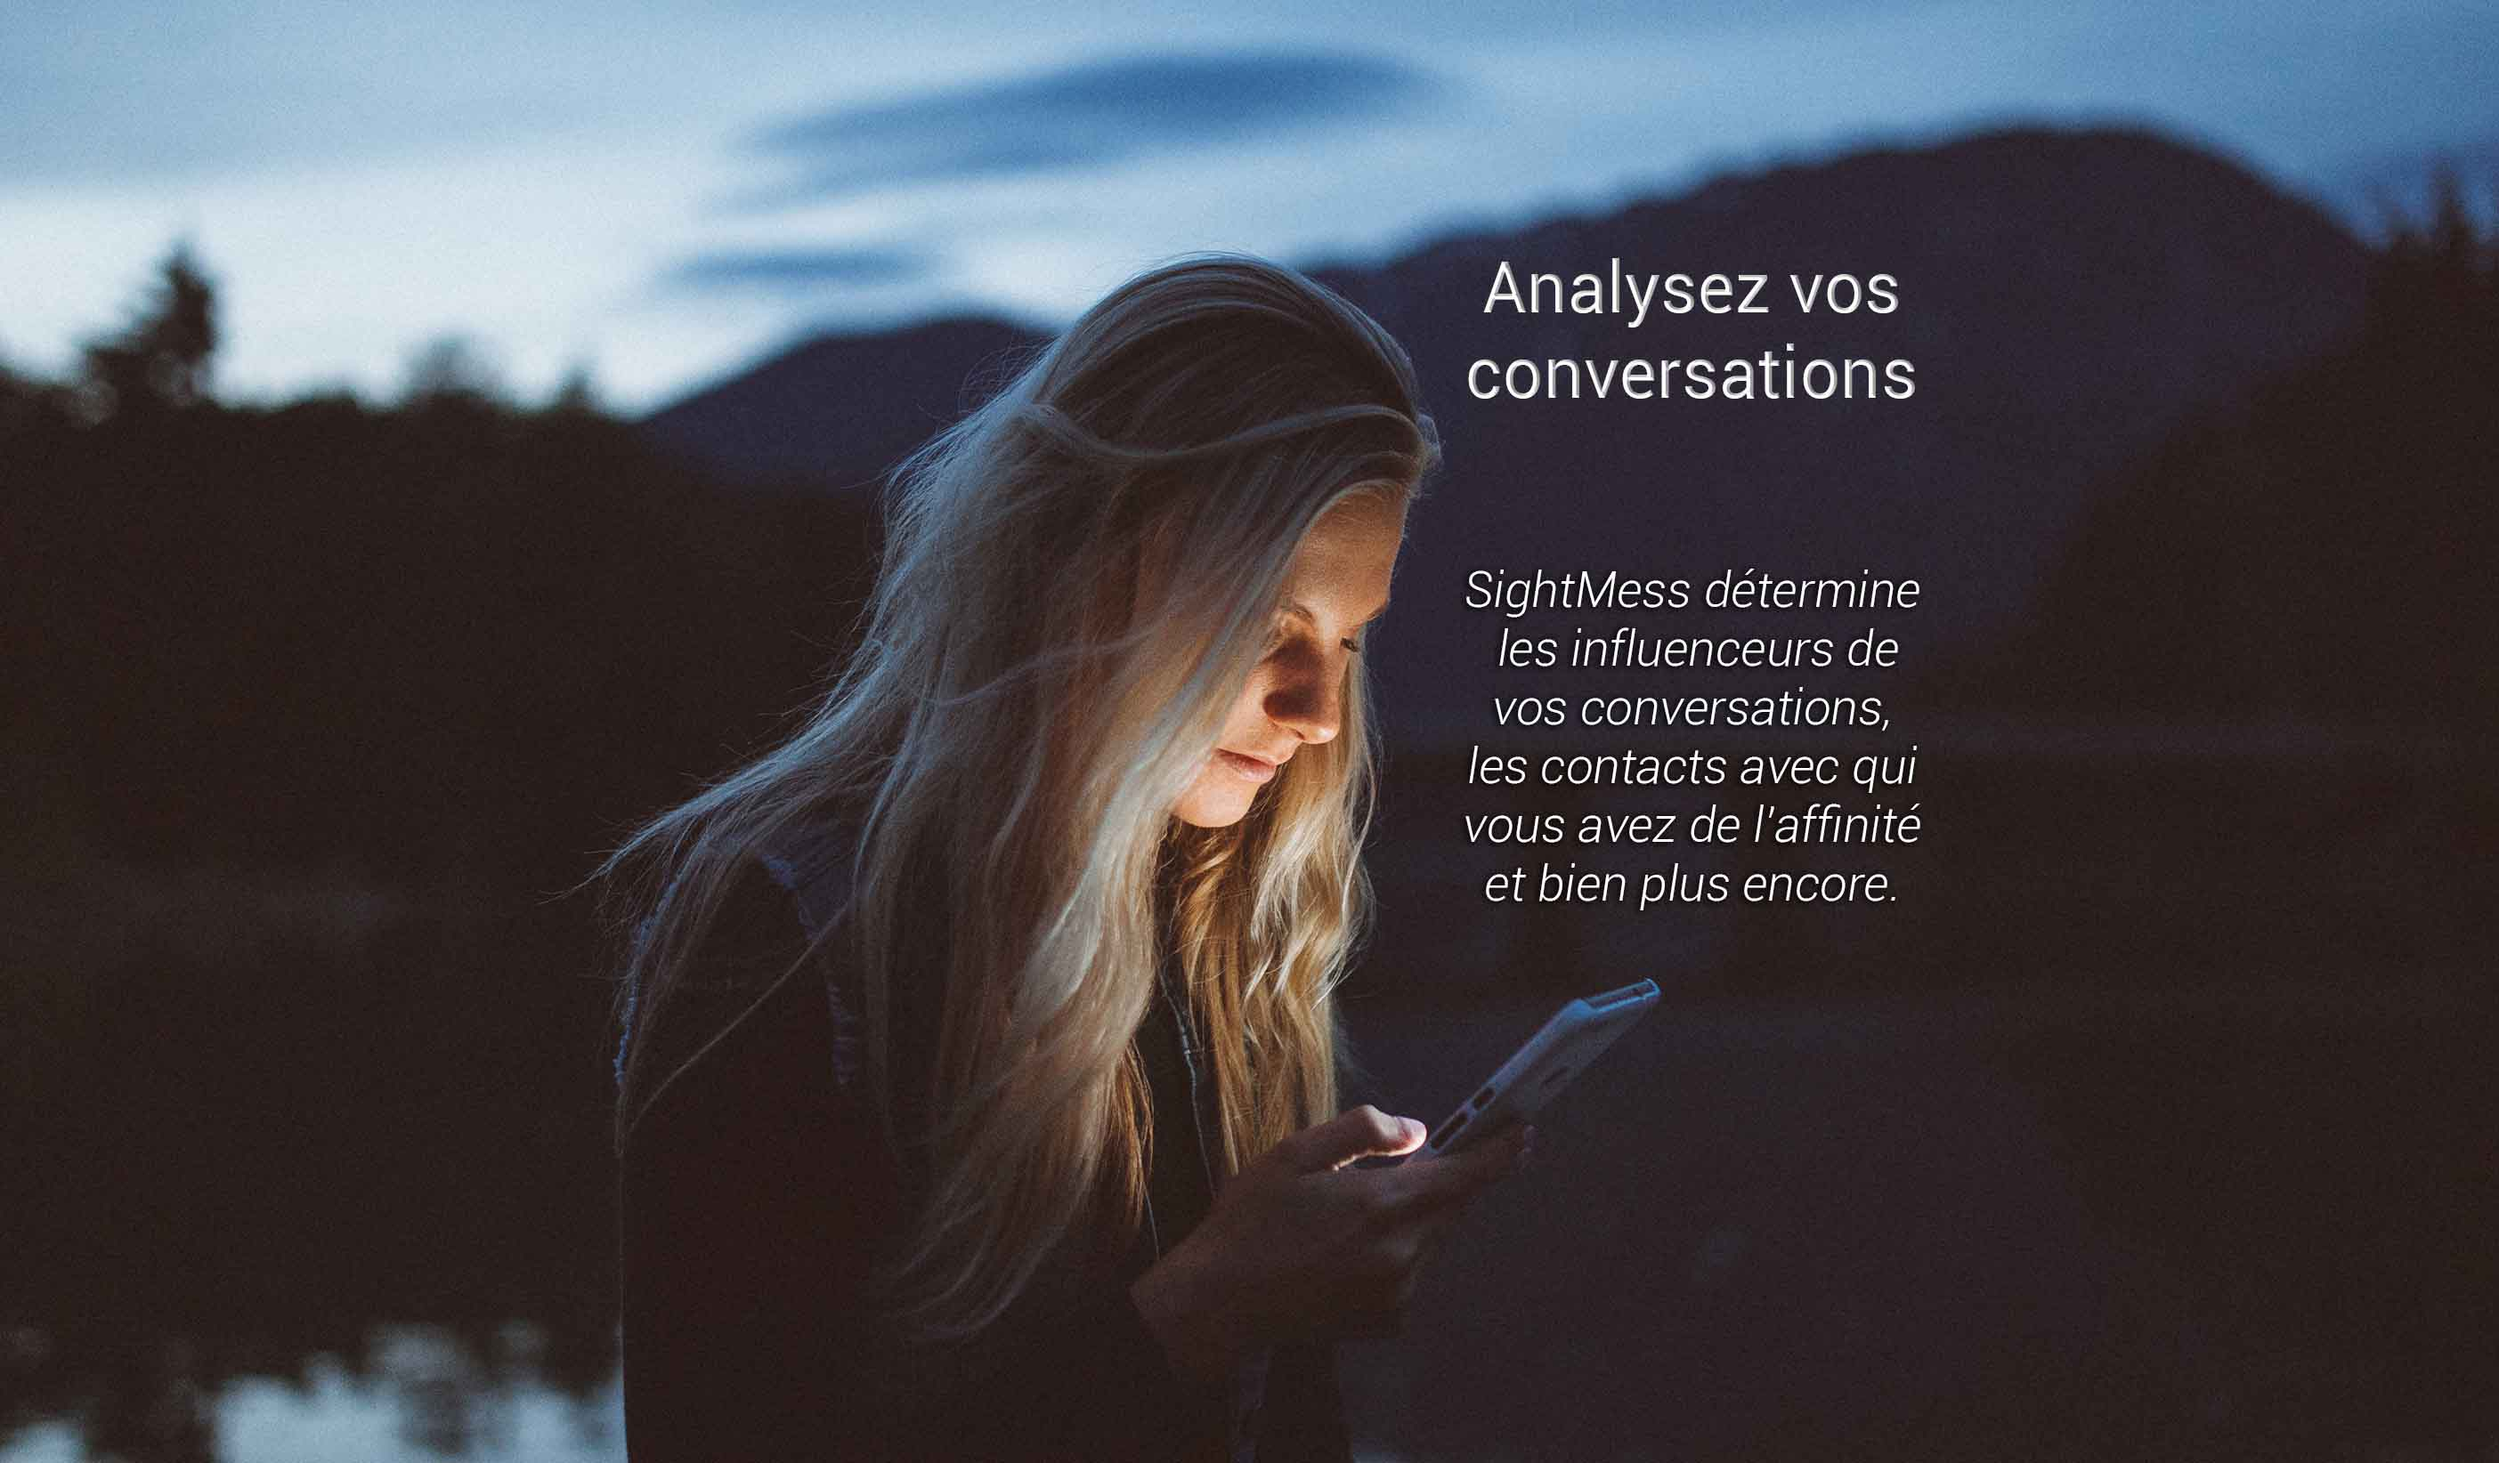
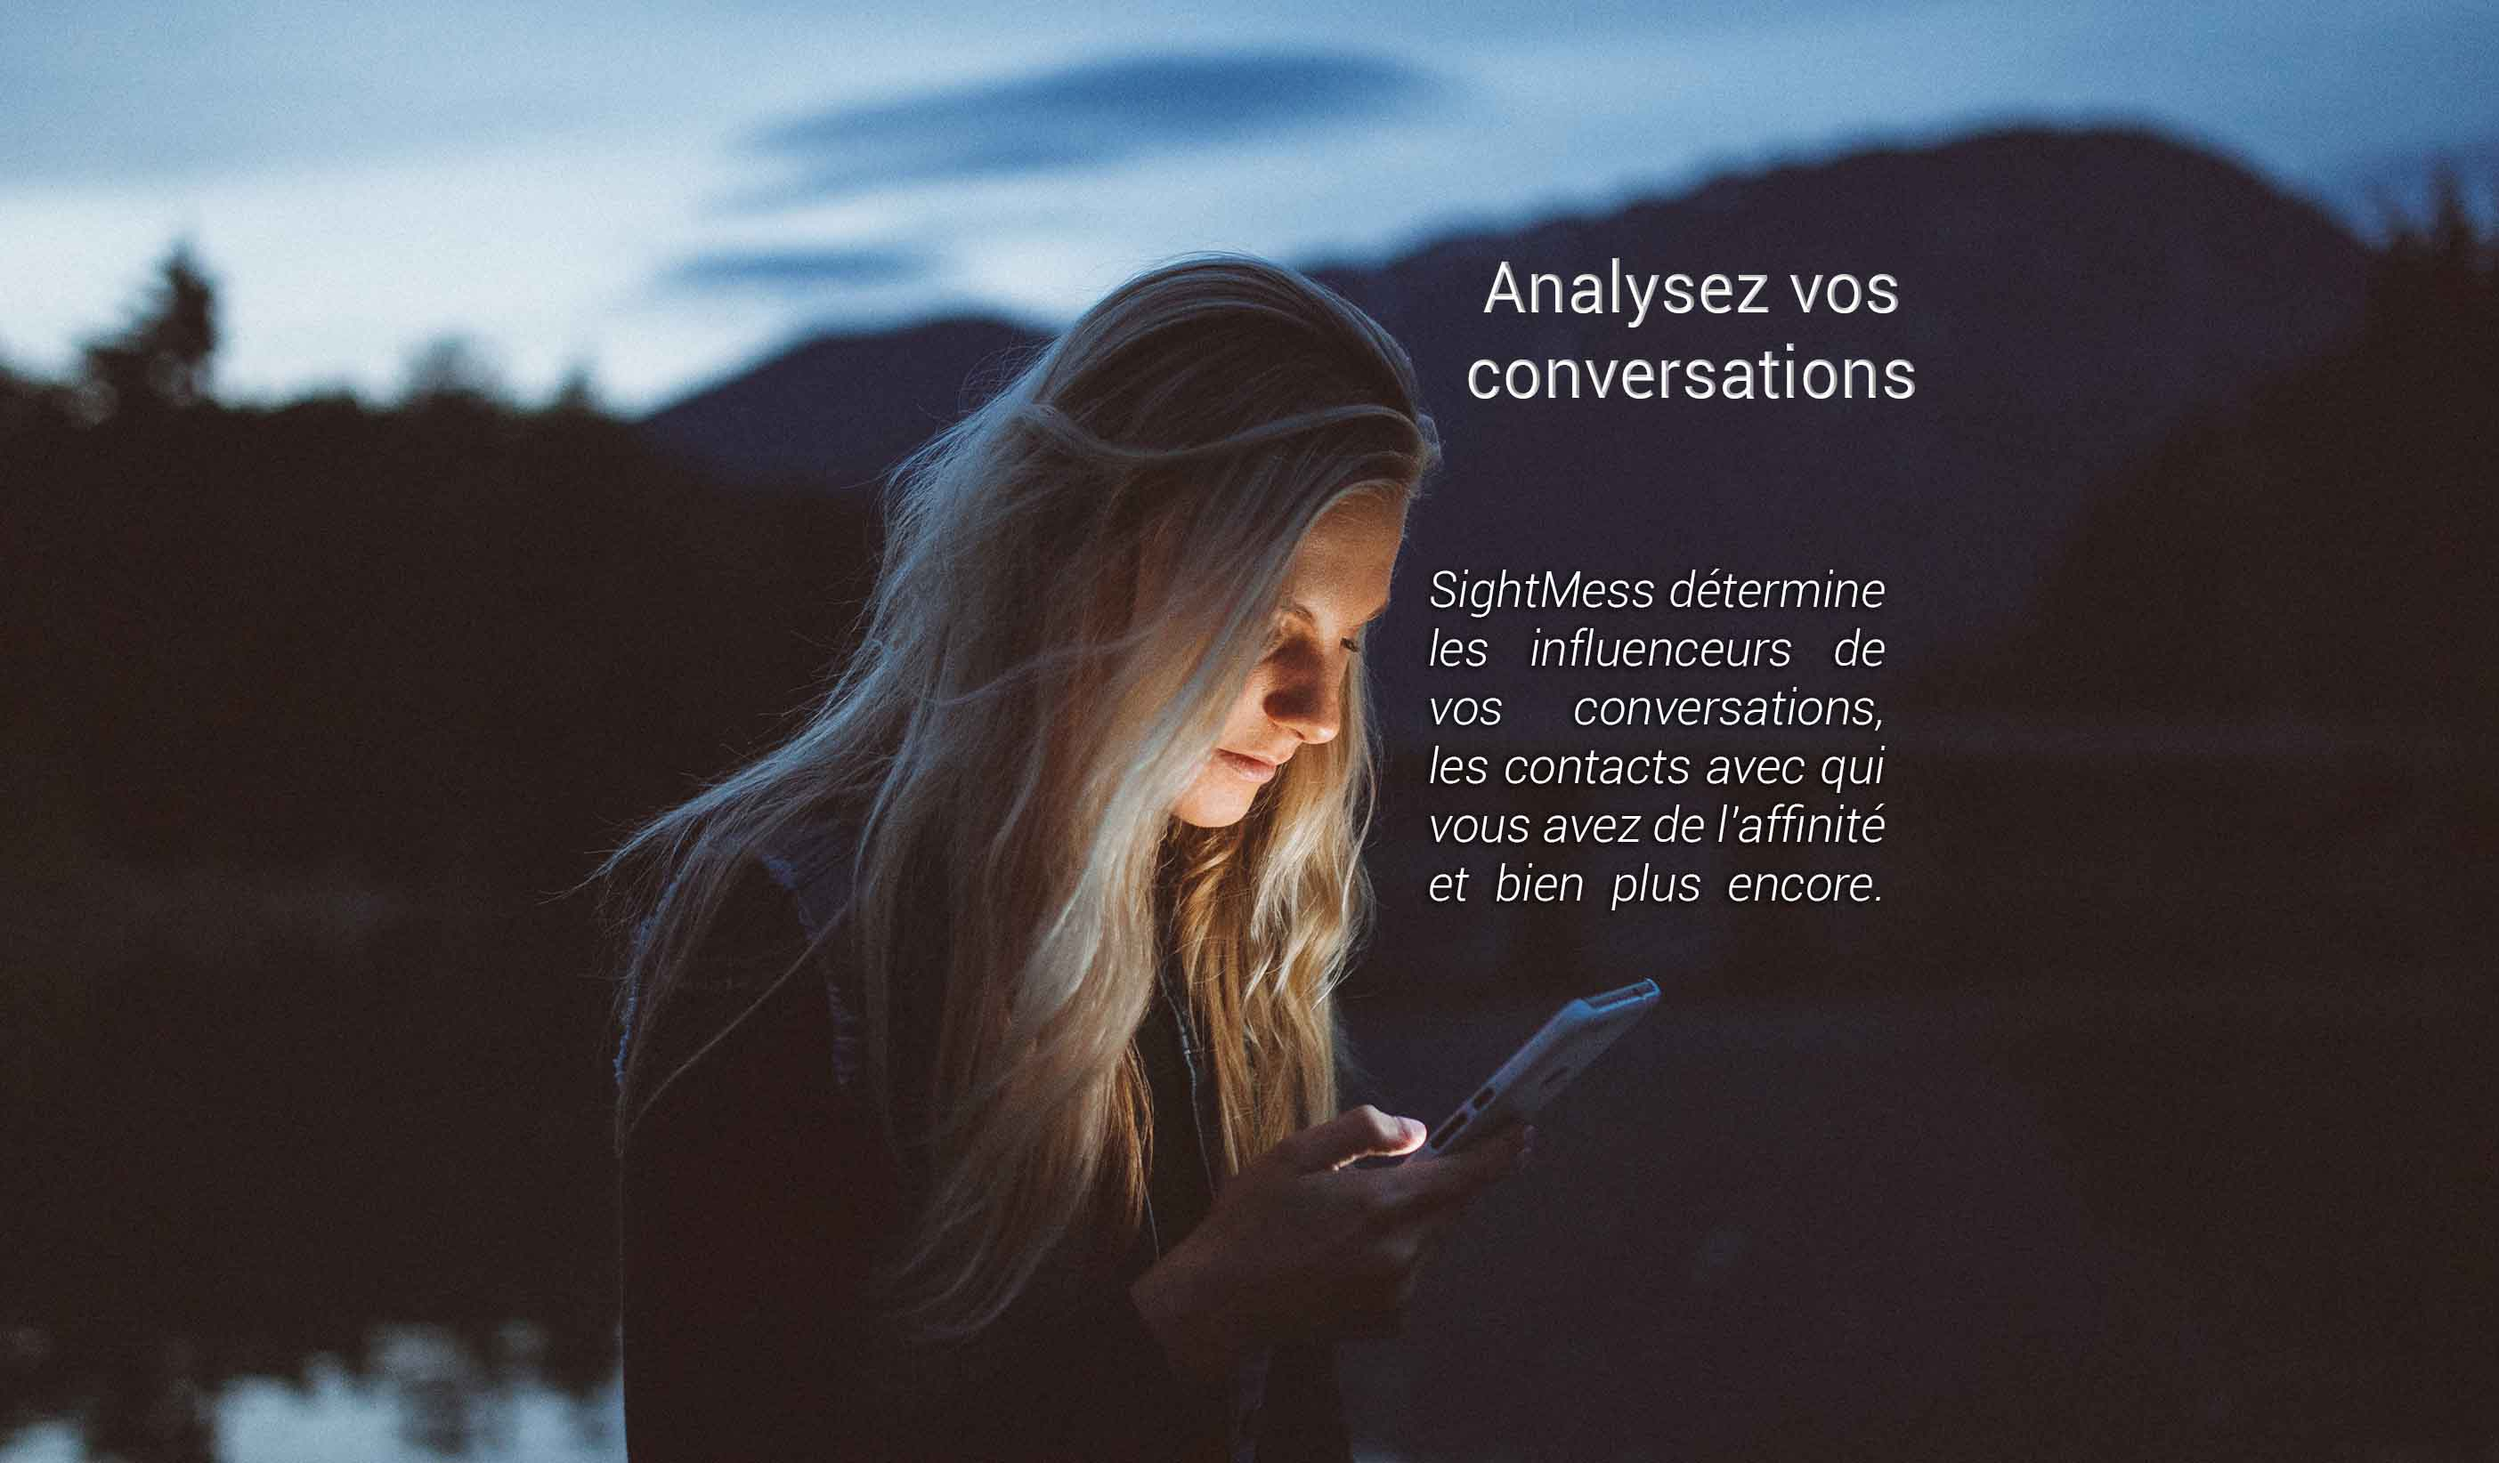
Adaptation mobile tuto & carrosel

Changed region(s): [[0.5579, 0.3723, 0.7748, 0.6204]]

diff --git a/src/app/file-drop-page/file-drop-page.component.scss b/src/app/file-drop-page/file-drop-page.component.scss
@@ -710,8 +710,9 @@ html,body {
         margin-bottom:15px;
       }
       p {
-        font-size:2vh;
-        line-height:2.2vh;
+        font-size:1.8vh;
+        line-height:2vh;
+        margin-bottom:1.5vh;
       }
       .modal-svg {
         position:relative;
@@ -740,10 +741,10 @@ html,body {
   z-index:0;
   margin-top: 5vh;
   h1 {
-    padding:75px 0 30px 0;
+    padding:4vh 0 1.8vh 0;
     text-align:center;
-    font-size:30px;
-    line-height:30px;
+    font-size:1.8vh;
+    line-height:1.8vh;
   }
   .buttons {
     max-width:800px;
